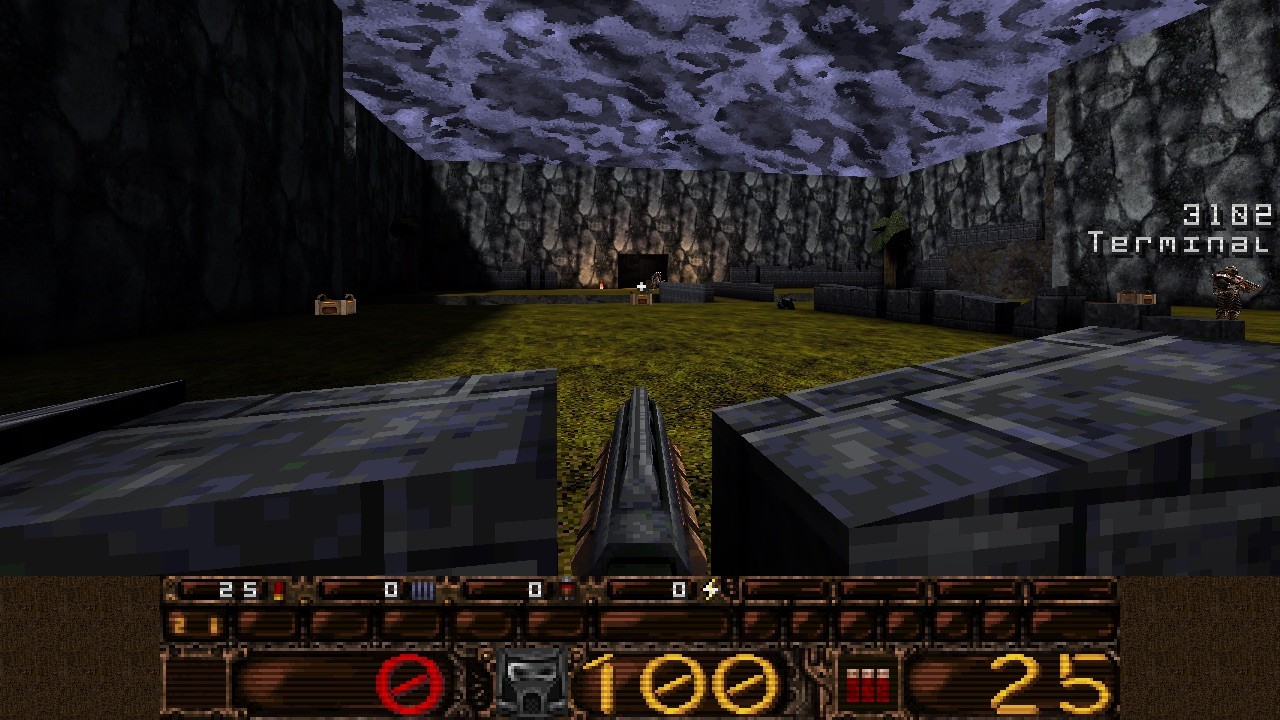
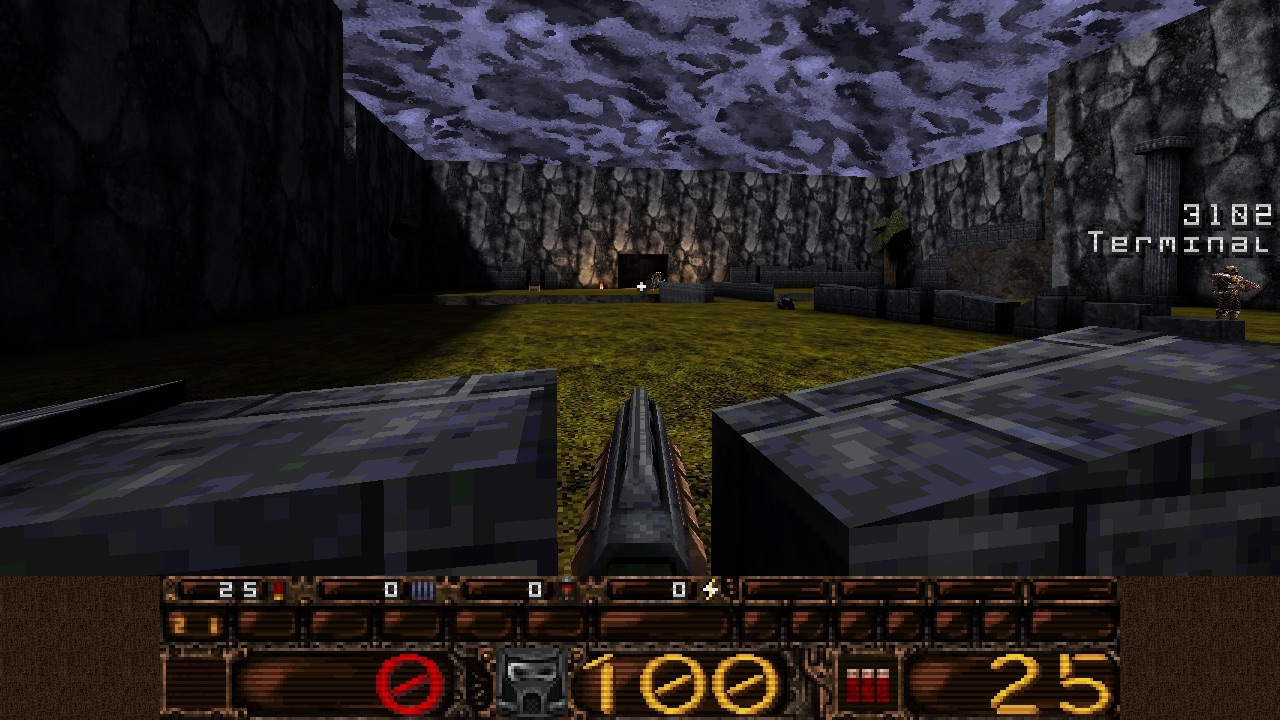
feat(ruins,forge): Ruins' arcade and ivy; Forge's catwalk posts and wall ribs
Ruins gets a ruined arcade along the field's east edge (columns broken
off at different heights, one stretch still carrying its lintel) and ivy
on the cliffs by the keep and the approach. Forge gets posts standing in
the lava under the catwalks' inner edges and metal ribs on the hall's
north wall. Screenshots and plans refreshed.

diff --git a/tools/arena_maps.py b/tools/arena_maps.py
@@ -495,6 +495,16 @@ def _ruins():
     for y in (1216, 1344):
         pieces.append(("arch", dict(axis="x", at=y, lo=-64, hi=64, z0=-192, spring=-96,
                                     top=-48, depth=32, tex=RUIN, kind="pointed", z1=-32)))
+    # a ruined arcade along the field's east edge: columns broken off at
+    # different heights, two still carrying a lintel
+    for k, y in enumerate(range(-240, 881, 160)):
+        h = (288, 96, 224, 64, 288, 160, 80, 256)[k % 8]
+        pieces.append(("column", dict(cx=608, cy=y, r=16, z0=0, z1=h, tex=PILLAR, cap_tex=RUIN_TRIM)))
+    pieces.append(("box", dict(lo=(584, -240, 288), hi=(632, 400, 312), tex=RUIN_TRIM)))
+    # ivy on the cliff by the keep's doors and on the approach
+    for lo, hi in (((636, 240, 24), (640, 560, 280)), ((-640, -560, 0), (-636, -360, 220)),
+                   ((764, -320, 0), (768, -120, 200))):
+        pieces.append(("box", dict(lo=lo, hi=hi, tex="vines1")))
     # trees on the terraces and the plateau
     for seed, (x, y, z) in enumerate(((-1104, 320, 64), (-816, -272, 64), (-1104, 912, 128),
                                        (-816, 440 + 64, 128), (-688, 1600, 0), (688, 1600, 0),
@@ -518,7 +528,7 @@ def _ruins():
         ("item_health", 896, 960, 144),
         ("item_health", 0, 1960, 16, 2),
     ]
-    supply = [(-600, -260, 16), (600, -260, 16), (-600, 900, 16), (600, 900, 16),
+    supply = [(-600, -260, 16), (500, -290, 16), (-600, 900, 16), (500, 900, 16),
               (-200, 1040, 16), (200, 1040, 16), (-1060, -280, 80), (-860, 920, 144),
               (1120, 320, 16), (880, 800, 16), (-400, 1700, 16), (400, 1700, 16)]
     lights = [(x, y, 120, 220) for x, y in ((992, 120), (992, 300), (912, 520), (1100, 760))]
@@ -680,6 +690,14 @@ def _forge():
         pieces.append(("box", dict(lo=(x0, 1596, 256), hi=(x0 + 128, 1600, 384), tex="may_tskull")))
     for x in (-224, 224):
         pieces.append(("brazier", dict(x=x, y=1560, z=192)))
+    # posts under the catwalks' inner edges, on the channels' rims
+    for x in (-592, 576):   # standing in the lava, clear of the floor's cells
+        for y in range(-192, 833, 256):
+            pieces.append(("box", dict(lo=(x, y - 8, -64), hi=(x + 16, y + 8, 176),
+                                        tex="met_brn_trim64")))
+    # metal ribs on the hall's north wall, either side of the forecourt
+    for x in (-624, -592, 592, 624):
+        pieces.append(("box", dict(lo=(x - 8, 952, 0), hi=(x + 8, 960, 512), tex=BEAM)))
     # braziers in the hall's cross, between the grids
     for x, y in ((0, -280), (-520, 320), (520, 320), (0, 920)):
         pieces.append(("brazier", dict(x=x, y=y, z=0)))
